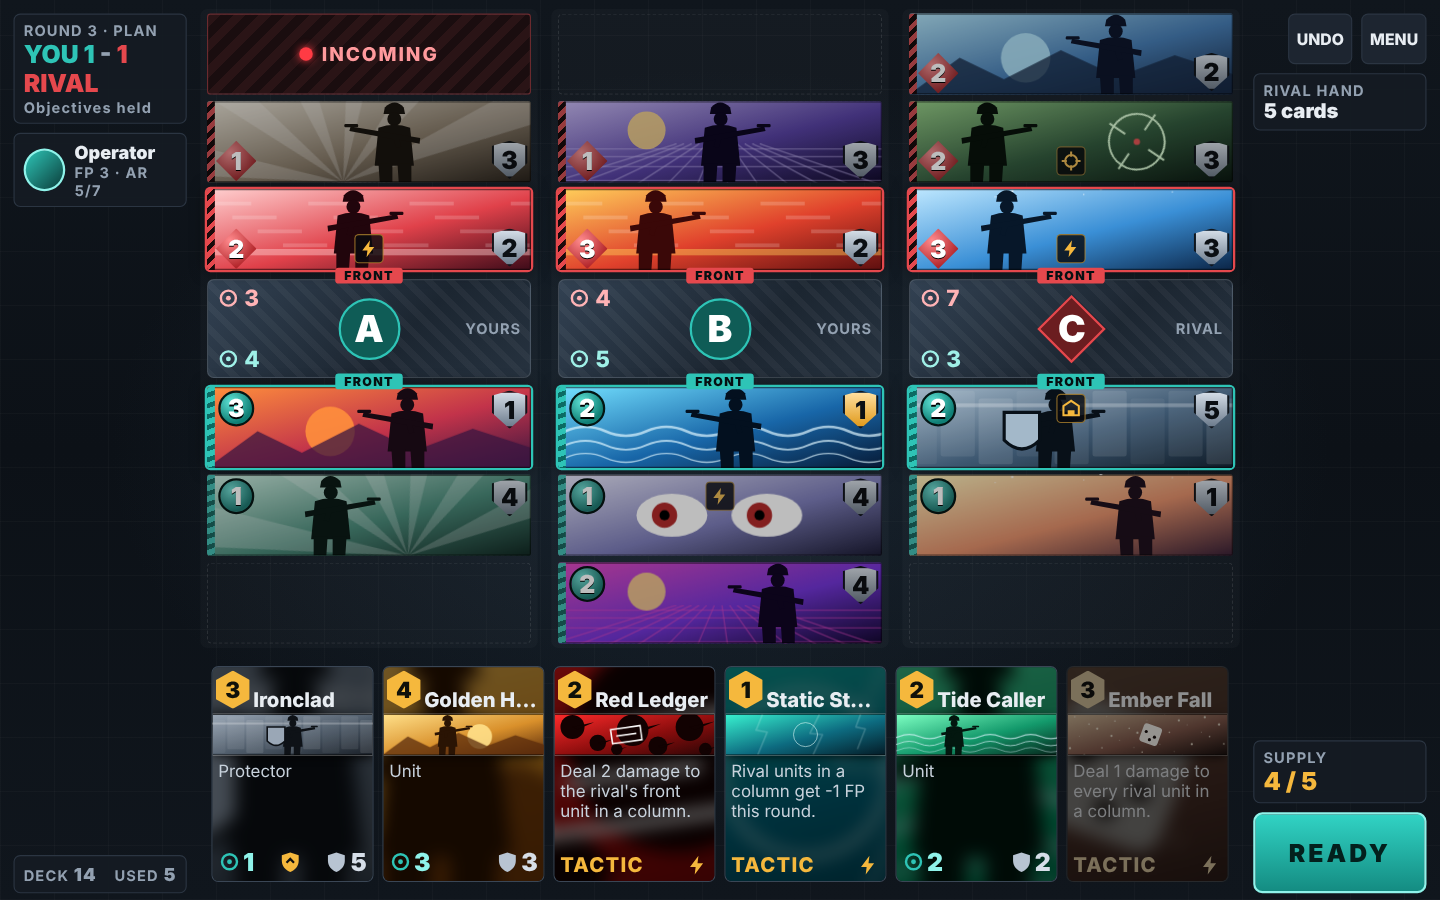
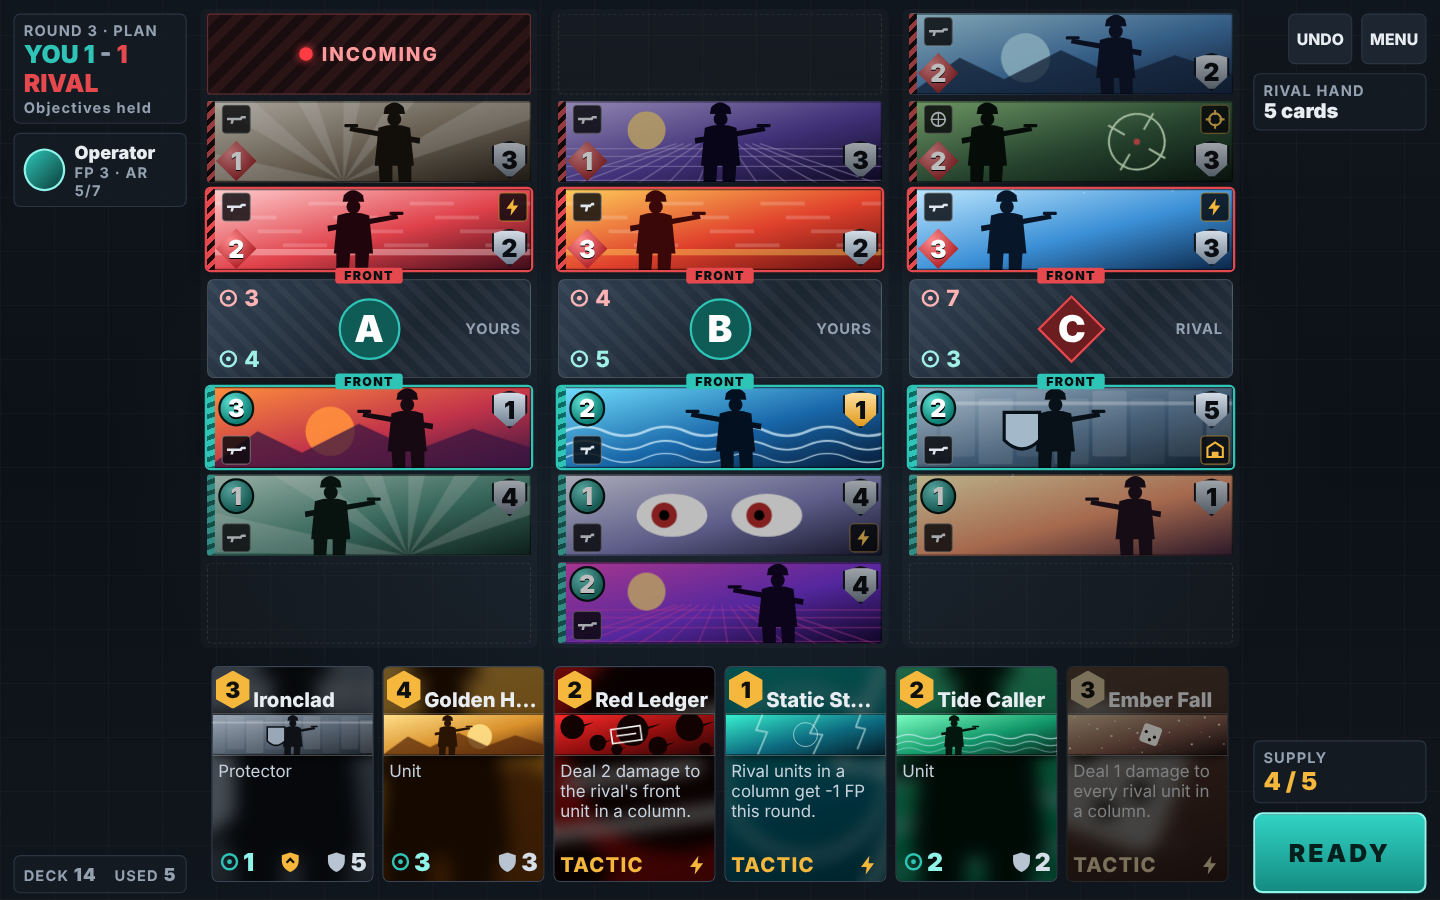
WIP: KillingCard UX/field-card docs and CardZone clarity pass in progress
Claude-Session: https://claude.ai/code/session_01JmVwVgoeVTdNBC1RfBf5V4

diff --git a/projects/killingcard/documentation/ux/mockup/index.html b/projects/killingcard/documentation/ux/mockup/index.html
@@ -88,7 +88,7 @@ body.chrome #stage { outline: 1px solid var(--line); }
 @keyframes die { 0% { filter: brightness(2) saturate(0); } 40% { opacity: 1; } 100% { opacity: 0; transform: scale(.9); } }
 .banner.fresh .badge, .banner.fresh .kws { animation: pop .28s .38s both cubic-bezier(.3,1.6,.5,1); }
 @keyframes pop { from { transform: scale(0); } to { transform: scale(1); } }
-.banner.fresh .kws { animation-name: popk; }
+.banner.fresh .kws { animation-name: pop; }
 @keyframes popk { from { transform: translateX(-50%) scale(0); } to { transform: translateX(-50%) scale(1); } }
 
 /* animation of banner art: paused unless .anim (focused / selected / placing) */
@@ -211,6 +211,9 @@ const ICON = {
   protector: '<path d="M12 2 21 5v6c0 6-4 10-9 12-5-2-9-6-9-12V5z" fill="currentColor"/><path d="M8 13l4-4 4 4" stroke="#111" stroke-width="2.4" fill="none"/>',
   cover: '<path d="M3 20V9l9-6 9 6v11z" fill="none" stroke="currentColor" stroke-width="2.4"/><path d="M8 20v-6h8v6" fill="currentColor"/>',
   fp: '<circle cx="12" cy="12" r="8" fill="none" stroke="currentColor" stroke-width="2.6"/><circle cx="12" cy="12" r="2.6" fill="currentColor"/>',
+  w_ar: '<path d="M1 10h15l2-2h5v3h-4l-1 2H9l-1 4H5l1-4H1z" fill="currentColor"/>',
+  w_smg: '<path d="M4 9h11l2-2h3v3h-3l-1 2h-3l-1 5H9l1-5H4z" fill="currentColor"/>',
+  w_sn: '<circle cx="12" cy="12" r="8" fill="none" stroke="currentColor" stroke-width="2"/><path d="M12 3v18M3 12h18" stroke="currentColor" stroke-width="1.6"/>',
   ar: '<path d="M12 2 21 5v6c0 6-4 10-9 12-5-2-9-6-9-12V5z" fill="currentColor"/>'
 };
 const ico = (n, s, col) => `<svg viewBox="0 0 24 24" width="${s}" height="${s}" style="color:${col || "currentColor"}">${ICON[n]}</svg>`;
@@ -320,6 +323,8 @@ const INIT = () => ({
 let S = INIT();
 function resetCards() { for (const c of Object.values(CARDS)) if (c.max) c.ar = c.max; CARDS.y1.ar = 1; CARDS.y3.ar = 1; }
 resetCards();
+const CLS = { r6: "w_sn", y4: "w_smg", y3: "w_smg", r3: "w_smg", y7: "w_smg", h5: "w_smg" };
+for (const [k, c] of Object.entries(CARDS)) if (c.type === "unit") c.cls = CLS[k] || "w_ar";
 
 // ---------------------------------------------------------------- render
 const canvas = document.getElementById("canvas"), stage = document.getElementById("stage");
@@ -342,10 +347,11 @@ function bannerEl(id, side, w, h) {
     const arb = el("div", "badge ar" + (c.ar < c.max ? " hurt" : ""), { width: px(bs), height: px(bs + 2), right: px(inset), fontSize: px(g.bfont) }, c.ar); arb.style[inner] = px(inset); sc.appendChild(arb);
   }
   if (c.kws.length) {
-    const k = el("div", "kws"); k.style[inner] = px(inset + (bs - g.kw) / 2);
+    const k = el("div", "kws", { left: "auto", right: px(inset), transform: "none" }); k.style[side === "you" ? "bottom" : "top"] = px(inset);
     c.kws.forEach(n => k.appendChild(el("div", "kw", { width: px(g.kw), height: px(g.kw) }, ico(n, g.kw))));
     sc.appendChild(k);
   }
+  if (c.cls) { const cp = el("div", "kw", { position: "absolute", width: px(g.kw), height: px(g.kw), left: px(Math.round(h * .1) + inset + (bs - g.kw) / 2), borderColor: "rgba(255,255,255,.35)", color: "#dfe6ee", zIndex: 2 }, ico(c.cls, g.kw)); cp.style[side === "you" ? "bottom" : "top"] = px(inset); sc.appendChild(cp); }
   const ft = el("div", "ftab", { width: px(g.ftab[0]), height: px(g.ftab[1]), fontSize: px(g.ftab[2]) }, "FRONT");
   ft.style[side === "you" ? "top" : "bottom"] = px(-g.ftab[1] + 2);
   ft.style.display = "none"; ft.className += " ftab"; sc.appendChild(ft);
@@ -662,7 +668,7 @@ function openFocus(id, side) {
       <div class="banner side-${side} anim" style="position:absolute;inset:0;width:${zw}px;height:${zh}px;cursor:default"><div class="scaler"><div class="art">${artSVG(c.art)}<div class="shine"></div></div>
       <div class="spine" style="width:${Math.round(zh * .08)}px"></div>
       ${c.type === "unit" ? `<div class="badge fp" style="width:44px;height:44px;left:${Math.round(zh * .08) + 6}px;${side === "you" ? "top" : "bottom"}:6px;font-size:26px">${c.fp}</div><div class="badge ar${c.ar < c.max ? " hurt" : ""}" style="width:44px;height:46px;right:6px;${side === "you" ? "top" : "bottom"}:6px;font-size:26px">${c.ar}</div>` : ""}
-      ${c.kws.length ? `<div class="kws" style="${side === "you" ? "top" : "bottom"}:11px">${c.kws.map(k => `<div class="kw" style="width:34px;height:34px">${ico(k, 34)}</div>`).join("")}</div>` : ""}
+      ${c.kws.length ? `<div class="kws" style="left:auto;right:6px;transform:none;${side === "you" ? "bottom" : "top"}:6px">${c.kws.map(k => `<div class="kw" style="width:34px;height:34px">${ico(k, 34)}</div>`).join("")}</div>` : ""}
       <div class="animdot"></div></div></div></div>
     <div style="padding:0 ${pad}px ${pad}px">
       <div style="display:flex;align-items:baseline;gap:10px;flex-wrap:wrap"><h3 style="font-size:${fz + 8}px">${c.name}</h3>
